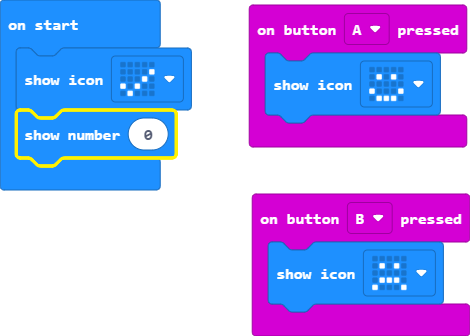
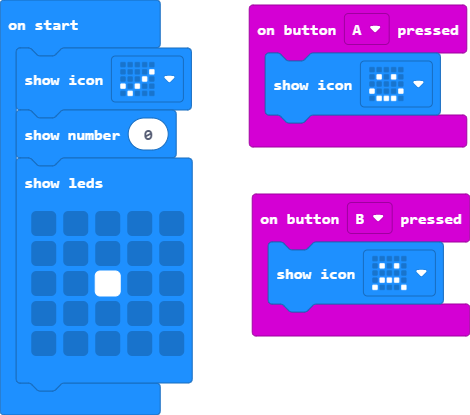
Update main.blocks, main.ts

diff --git a/main.ts b/main.ts
@@ -6,3 +6,10 @@ input.onButtonPressed(Button.B, function () {
 })
 basic.showIcon(IconNames.Yes)
 basic.showNumber(0)
+basic.showLeds(`
+    . . . . .
+    . . . . .
+    . . # . .
+    . . . . .
+    . . . . .
+    `)
